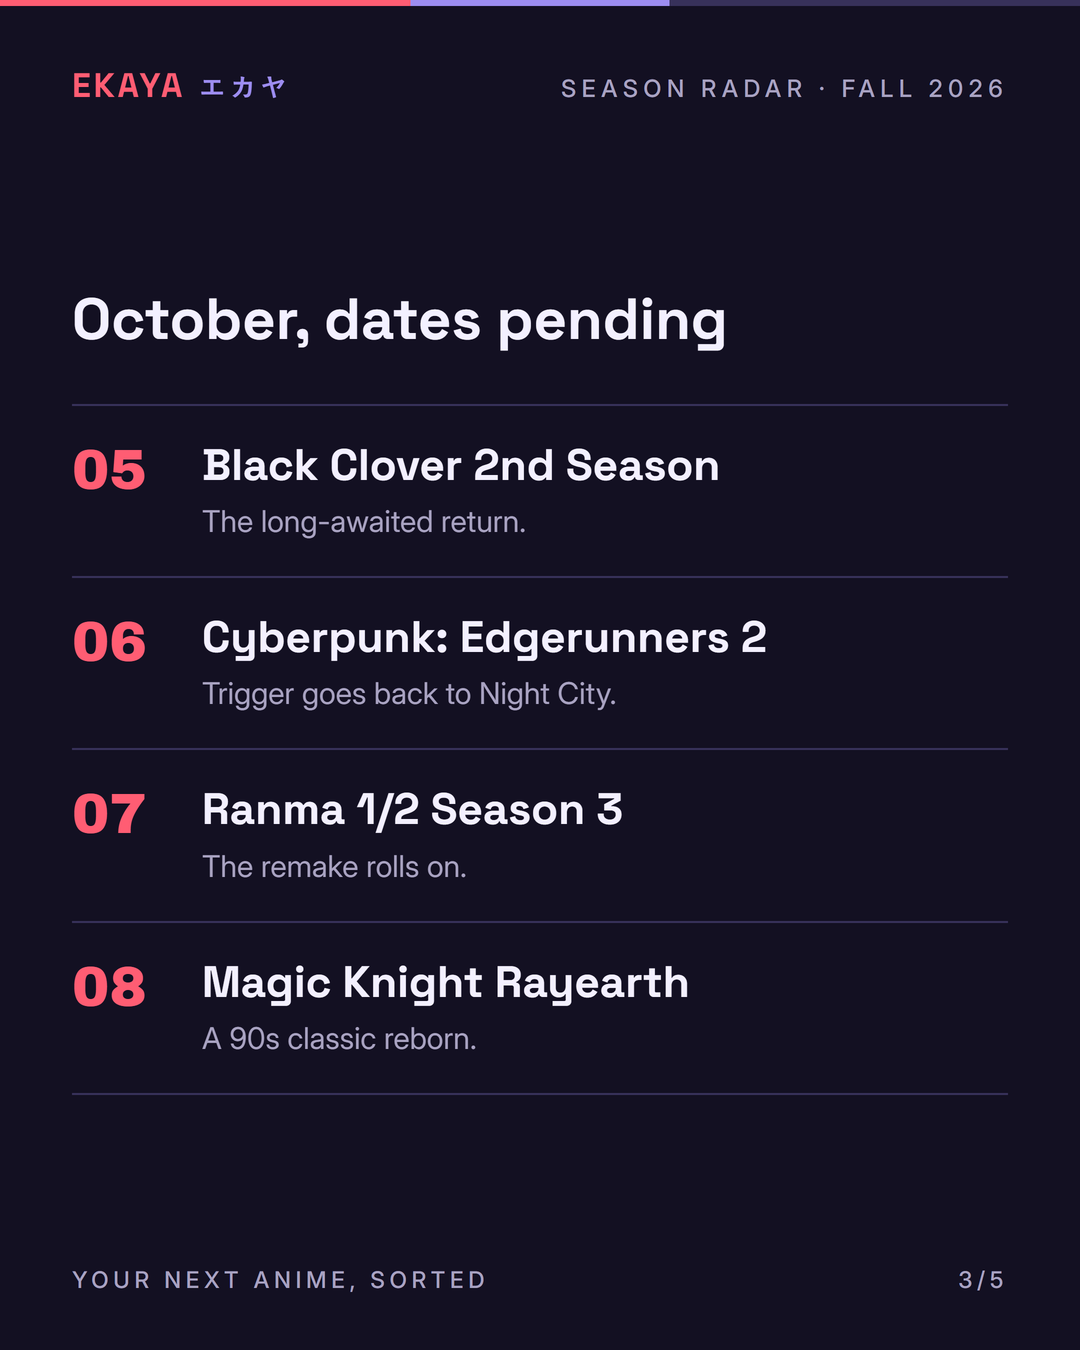
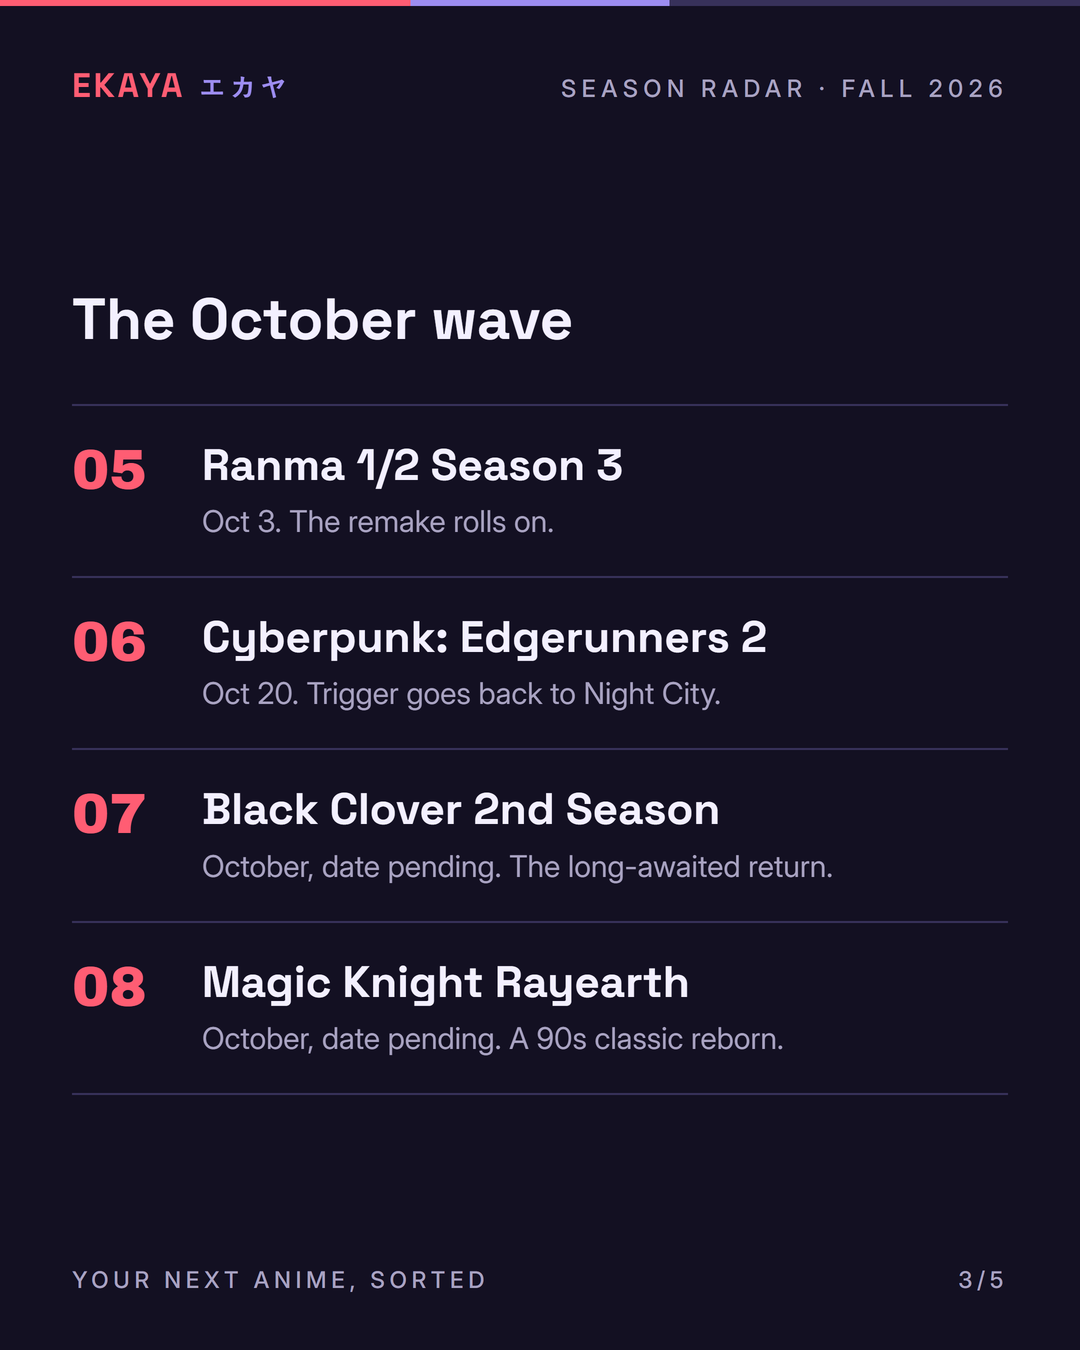
fix(anime_ekaya): confirm Oct 3 (Ranma 1/2 S3) + Oct 20 (Edgerunners 2) on fall-radar slide 3; scene/prop + ledger-vocabulary rules in daily prompt
Why: CCO spot-check found slide 3 understating two premiere dates as
'October, dates pending' that are publicly confirmed. Both re-verified
at source before editing (Google News RSS 2026-08-31: ANN 'October 3
Debut' for Ranma S3; Crunchyroll/Gematsu/CDPR 'October 20' for
Edgerunners 2). Slide re-rendered from the deck and re-copied into the
queue; Black Clover 2nd Season and Magic Knight Rayearth stay 'date
pending' individually. Prompt gains the 14-day scene/prop no-repeat
check for Reels and the format-cell-equals-queue-type ledger rule
(same defect class as nuvarel's near-duplicate, prevented here before
it fires).

Claude-Session: https://claude.ai/code/session_01E6erDHrHdGXLXY6Z3sejpV

diff --git a/accounts/anime_ekaya/docs/daily-build-agent-prompt.md b/accounts/anime_ekaya/docs/daily-build-agent-prompt.md
@@ -60,6 +60,18 @@ show can headline again after 21 days; a mood can repeat after 30 days;
 a take never repeats (sequels only). Skip any candidate that violates
 these.
 
+**Scene/prop rule (Reels, added 2026-08-31 after a real near-duplicate
+on a sibling account):** the EKAYA mascot + Midnight Channel backdrop is
+a fixed rendered environment, so two Reels can carry different lists and
+still look identical at thumbnail scale. Before building the Reel, look
+at the last **14 days'** Reel QA frames
+(`accounts/anime_ekaya/reels/<id>/qa/` where present): the same
+backdrop/scene-set + hero-prop combination (e.g. "mascot + TV set +
+remote") must not recur within 14 days. Vary the composition (different
+device/prop, different staging) even when the mascot and brand tokens
+stay constant; when in doubt, compare your hook frame against theirs at
+~350px.
+
 ### Step 3 — fallback
 
 If the trend search yields nothing usable, fall back to the evergreen
@@ -146,7 +158,11 @@ top-of-hour still lands in the target window.
 
 Append one row per queued post to
 `accounts/anime_ekaya/content/used-topics.md` (existing table format:
-date, post, format, mood/topic, shows featured).
+date, post, format, mood/topic, shows featured). The format cell MUST
+start with the exact `type` value from the queue JSON, verbatim
+(parenthetical notes after it are fine) — a ledger filed under one
+vocabulary while the queue uses another produced a real
+anti-repetition false clear on a sibling account (2026-08-31).
 
 ### Step 9 — commit (shared-repo git safety, non-negotiable)
 
